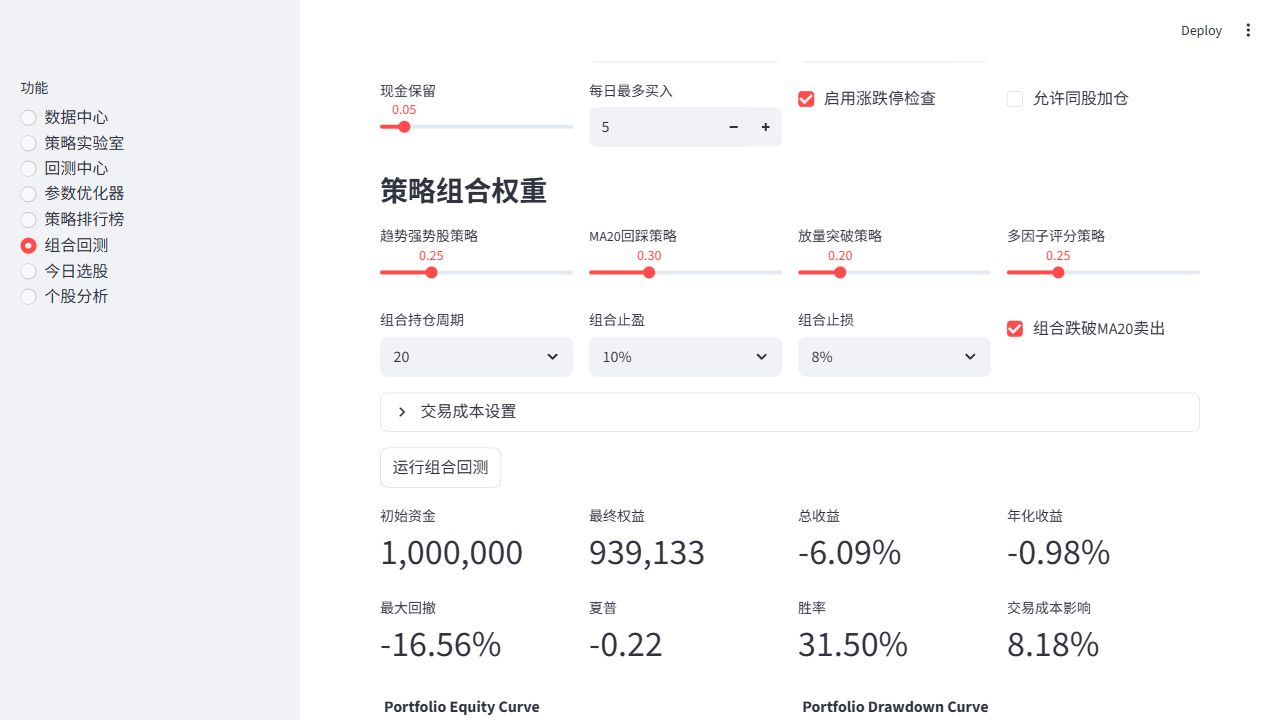
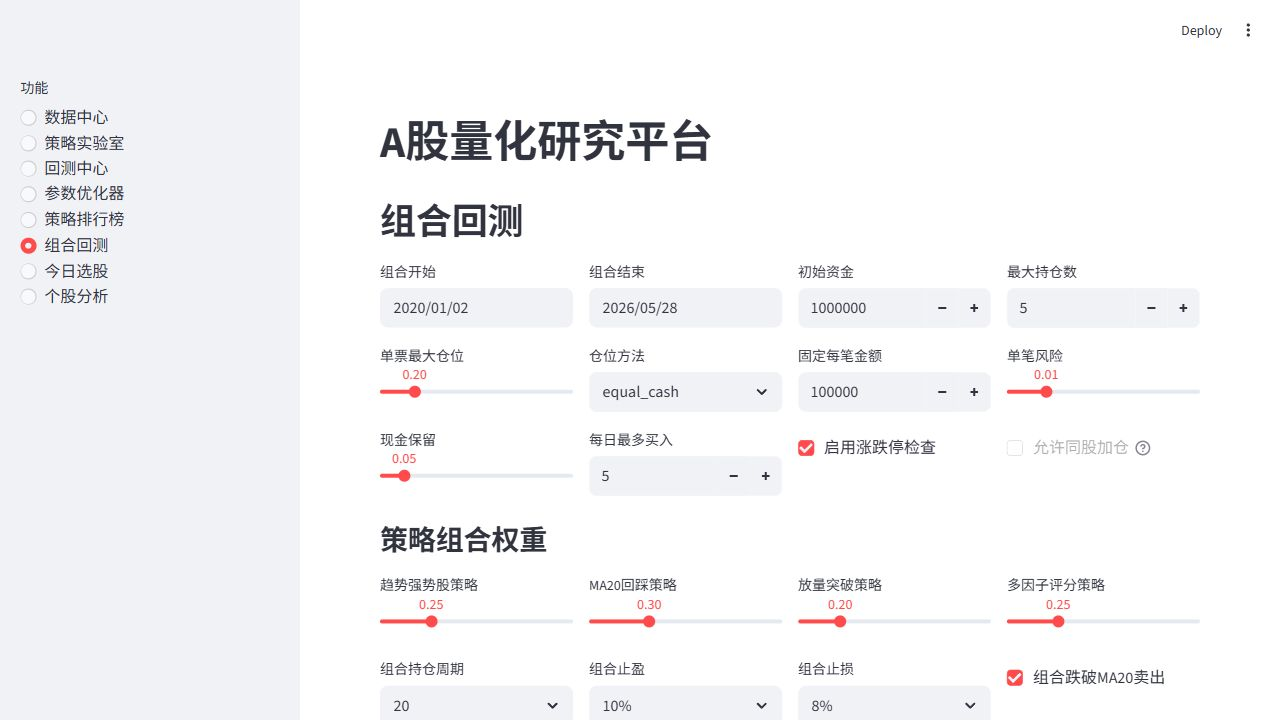
fix: address V3 PR review blockers

diff --git a/ranking/leaderboard.py b/ranking/leaderboard.py
@@ -2,7 +2,8 @@ from __future__ import annotations
 
 import pandas as pd
 
-from backtest.backtest_engine import run_strategy_backtest
+from backtest.backtest_engine import apply_realistic_costs_to_trades, run_strategy_backtest
+from execution.cost_model import TradingCostConfig
 from ranking.ranking_engine import STRATEGIES
 from strategy.metadata import display_strategy_name
 
@@ -41,6 +42,9 @@ def build_leaderboard_from_metrics(metrics_df: pd.DataFrame) -> pd.DataFrame:
         "gross_annual_return",
         "net_annual_return",
         "cost_impact",
+        "total_commission",
+        "total_stamp_tax",
+        "total_slippage_cost",
         "max_drawdown",
         "sharpe_ratio",
         "calmar_ratio",
@@ -53,6 +57,7 @@ def build_leaderboard_from_metrics(metrics_df: pd.DataFrame) -> pd.DataFrame:
     for item in metrics_df.to_dict("records"):
         net_cagr = _first_number(item, "net_CAGR", "net_annual_return", "CAGR", "annual_return")
         gross_annual = _first_number(item, "gross_annual_return", "gross_CAGR", "CAGR", "annual_return")
+        cost_impact = float(item.get("cost_impact", max(0.0, gross_annual - net_cagr)) or 0)
         max_drawdown = float(item.get("max_drawdown", 0) or 0)
         sharpe_ratio = float(item.get("sharpe_ratio", 0) or 0)
         rows.append(
@@ -68,7 +73,10 @@ def build_leaderboard_from_metrics(metrics_df: pd.DataFrame) -> pd.DataFrame:
                 "avg_return": float(item.get("avg_return", 0) or 0),
                 "gross_annual_return": gross_annual,
                 "net_annual_return": net_cagr,
-                "cost_impact": float(item.get("cost_impact", max(0.0, gross_annual - net_cagr)) or 0),
+                "cost_impact": max(0.0, cost_impact),
+                "total_commission": float(item.get("total_commission", 0) or 0),
+                "total_stamp_tax": float(item.get("total_stamp_tax", 0) or 0),
+                "total_slippage_cost": float(item.get("total_slippage_cost", 0) or 0),
                 "max_drawdown": max_drawdown,
                 "sharpe_ratio": sharpe_ratio,
                 "calmar_ratio": _calmar(net_cagr, max_drawdown),
@@ -89,10 +97,12 @@ def build_strategy_leaderboard(
     holding_days: int = 20,
     take_profit_pct: float | None = 0.10,
     stop_loss_pct: float | None = 0.08,
+    cost_config: TradingCostConfig | None = None,
 ) -> pd.DataFrame:
     if factor_df.empty:
         return build_leaderboard_from_metrics(pd.DataFrame())
 
+    cost_config = cost_config or TradingCostConfig()
     periods = periods or DEFAULT_PERIODS
     data = factor_df.copy()
     data["date"] = pd.to_datetime(data["date"])
@@ -116,20 +126,29 @@ def build_strategy_leaderboard(
                 stop_loss_pct=stop_loss_pct,
                 sell_on_ma20_break=True,
             )
+            _, net_metrics = apply_realistic_costs_to_trades(
+                metrics["trade_details"],
+                cost_config=cost_config,
+            )
+            gross_annual_return = float(metrics["CAGR"])
+            net_annual_return = float(net_metrics["CAGR"])
             metrics_rows.append(
                 {
                     "period": period_name,
                     "strategy_name": strategy_name,
-                    "win_rate": metrics["win_rate"],
-                    "avg_return": metrics["avg_return"],
-                    "CAGR": metrics["CAGR"],
-                    "gross_annual_return": metrics["CAGR"],
-                    "net_annual_return": metrics["CAGR"],
-                    "cost_impact": 0.0,
-                    "max_drawdown": metrics["max_drawdown"],
-                    "sharpe_ratio": metrics["sharpe_ratio"],
-                    "profit_loss_ratio": metrics["profit_loss_ratio"],
-                    "total_trades": metrics["total_trades"],
+                    "win_rate": net_metrics["win_rate"],
+                    "avg_return": net_metrics["avg_return"],
+                    "CAGR": net_annual_return,
+                    "gross_annual_return": gross_annual_return,
+                    "net_annual_return": net_annual_return,
+                    "cost_impact": max(0.0, gross_annual_return - net_annual_return),
+                    "total_commission": net_metrics.get("total_commission", 0.0),
+                    "total_stamp_tax": net_metrics.get("total_stamp_tax", 0.0),
+                    "total_slippage_cost": net_metrics.get("total_slippage_cost", 0.0),
+                    "max_drawdown": net_metrics["max_drawdown"],
+                    "sharpe_ratio": net_metrics["sharpe_ratio"],
+                    "profit_loss_ratio": net_metrics["profit_loss_ratio"],
+                    "total_trades": net_metrics["total_trades"],
                 }
             )
     return build_leaderboard_from_metrics(pd.DataFrame(metrics_rows))

diff --git a/tests/test_leaderboard.py b/tests/test_leaderboard.py
@@ -1,6 +1,9 @@
 import pandas as pd
 
-from ranking.leaderboard import build_leaderboard_from_metrics, rate_strategy
+import ranking.leaderboard as leaderboard_module
+from backtest.backtest_engine import calculate_trade_metrics
+from execution.cost_model import TradingCostConfig
+from ranking.leaderboard import build_leaderboard_from_metrics, build_strategy_leaderboard, rate_strategy
 
 
 def test_rate_strategy_rules_use_net_cagr_and_negative_drawdown_comparison():
@@ -56,3 +59,68 @@ def test_build_leaderboard_from_metrics_uses_display_names_and_net_columns():
         "max_drawdown",
         "sharpe_ratio",
     }.issubset(leaderboard.columns)
+
+
+def test_build_leaderboard_from_metrics_rates_by_net_result():
+    metrics = pd.DataFrame(
+        [
+            {
+                "strategy_name": "trend_strength_strategy",
+                "period": "1个月",
+                "win_rate": 0.8,
+                "avg_return": 0.04,
+                "gross_annual_return": 0.30,
+                "net_annual_return": -0.01,
+                "cost_impact": 0.31,
+                "max_drawdown": -0.10,
+                "sharpe_ratio": 2.0,
+                "profit_loss_ratio": 1.5,
+            }
+        ]
+    )
+
+    leaderboard = build_leaderboard_from_metrics(metrics)
+
+    assert leaderboard.iloc[0]["rating"] == "D"
+
+
+def test_strategy_leaderboard_applies_default_trading_costs(monkeypatch):
+    def fake_strategy(_factor_df, **_params):
+        return pd.DataFrame()
+
+    def fake_backtest(**_kwargs):
+        trades = pd.DataFrame(
+            {
+                "code": ["000001"],
+                "name": ["Sample"],
+                "buy_date": [pd.Timestamp("2023-01-01")],
+                "exit_date": [pd.Timestamp("2024-01-01")],
+                "buy_price": [10.0],
+                "exit_price": [11.0],
+                "return": [0.10],
+            }
+        )
+        return calculate_trade_metrics(trades)
+
+    monkeypatch.setattr(leaderboard_module, "STRATEGIES", {"trend_strength_strategy": fake_strategy})
+    monkeypatch.setattr(leaderboard_module, "run_strategy_backtest", fake_backtest)
+    factor_df = pd.DataFrame(
+        {
+            "code": ["000001", "000001", "000001"],
+            "date": pd.bdate_range("2024-01-01", periods=3),
+            "close": [10.0, 10.5, 11.0],
+        }
+    )
+
+    leaderboard = build_strategy_leaderboard(
+        factor_df,
+        periods={"test": 2},
+        cost_config=TradingCostConfig(),
+    )
+    row = leaderboard.iloc[0]
+
+    assert row["cost_impact"] >= 0
+    assert row["net_annual_return"] <= row["gross_annual_return"]
+    assert row["total_commission"] > 0
+    assert row["total_stamp_tax"] > 0
+    assert row["total_slippage_cost"] > 0

diff --git a/tests/test_market_regime_v3.py b/tests/test_market_regime_v3.py
@@ -1,6 +1,6 @@
 import pandas as pd
 
-from market.regime_engine import classify_market_regime
+from market.regime_engine import build_market_proxy_from_prices, classify_market_regime
 
 
 def test_enhanced_market_regime_outputs_required_factor_columns():
@@ -35,3 +35,44 @@ def test_enhanced_market_regime_detects_high_volatility():
     regimes = classify_market_regime(index_df)
 
     assert "HIGH_VOLATILITY" in set(regimes["regime"])
+
+
+def test_market_proxy_uses_equal_weighted_normalized_prices():
+    prices = pd.DataFrame(
+        {
+            "code": ["000001", "000002", "000001", "000002"],
+            "date": [
+                pd.Timestamp("2024-01-01"),
+                pd.Timestamp("2024-01-01"),
+                pd.Timestamp("2024-01-02"),
+                pd.Timestamp("2024-01-02"),
+            ],
+            "close": [1000.0, 10.0, 1000.0, 20.0],
+        }
+    )
+
+    proxy = build_market_proxy_from_prices(prices)
+
+    assert list(proxy["date"]) == [pd.Timestamp("2024-01-01"), pd.Timestamp("2024-01-02")]
+    assert list(proxy["close"].round(4)) == [1.0, 1.5]
+
+
+def test_market_proxy_without_code_falls_back_to_simple_average_sorted():
+    prices = pd.DataFrame(
+        {
+            "date": [pd.Timestamp("2024-01-02"), pd.Timestamp("2024-01-01"), pd.Timestamp("2024-01-01")],
+            "close": [30.0, 10.0, 20.0],
+        }
+    )
+
+    proxy = build_market_proxy_from_prices(prices)
+
+    assert list(proxy["date"]) == [pd.Timestamp("2024-01-01"), pd.Timestamp("2024-01-02")]
+    assert list(proxy["close"]) == [15.0, 30.0]
+
+
+def test_market_proxy_empty_data_does_not_error():
+    proxy = build_market_proxy_from_prices(pd.DataFrame())
+
+    assert list(proxy.columns) == ["date", "close"]
+    assert proxy.empty

diff --git a/market/regime_engine.py b/market/regime_engine.py
@@ -73,10 +73,23 @@ def build_market_proxy_from_prices(price_df: pd.DataFrame) -> pd.DataFrame:
     proxy = price_df.copy()
     proxy["date"] = pd.to_datetime(proxy["date"])
     proxy["close"] = pd.to_numeric(proxy["close"], errors="coerce")
+    proxy = proxy.dropna(subset=["date", "close"]).sort_values("date").reset_index(drop=True)
+    if proxy.empty:
+        return pd.DataFrame(columns=["date", "close"])
+
+    if "code" not in proxy.columns:
+        return proxy.groupby("date", as_index=False)["close"].mean().sort_values("date").reset_index(drop=True)
+
+    proxy["code"] = proxy["code"].astype(str).str.zfill(6)
+    first_close = proxy.groupby("code")["close"].transform("first")
+    proxy = proxy[first_close.gt(0)].copy()
+    if proxy.empty:
+        return pd.DataFrame(columns=["date", "close"])
+    proxy["normalized_close"] = proxy["close"] / first_close.loc[proxy.index]
     return (
-        proxy.dropna(subset=["date", "close"])
-        .groupby("date", as_index=False)["close"]
+        proxy.groupby("date", as_index=False)["normalized_close"]
         .mean()
+        .rename(columns={"normalized_close": "close"})
         .sort_values("date")
         .reset_index(drop=True)
     )

diff --git a/portfolio/portfolio_engine.py b/portfolio/portfolio_engine.py
@@ -43,6 +43,7 @@ class PortfolioBacktestEngine:
         self.cost_config = cost_config or TradingCostConfig()
         self.position_config = position_config or PositionSizingConfig()
         self.exit_config = exit_config or ExitConfig()
+        self._reject_add_position_mode()
 
     def run(
         self,
@@ -51,6 +52,7 @@ class PortfolioBacktestEngine:
         start_date: str | pd.Timestamp | None = None,
         end_date: str | pd.Timestamp | None = None,
     ) -> dict[str, object]:
+        self._reject_add_position_mode()
         prices = self._prepare_prices(price_data)
         if prices.empty:
             return self._empty_result(pd.DataFrame())
@@ -132,6 +134,13 @@ class PortfolioBacktestEngine:
             "positions_snapshot": positions_df,
             "metrics": metrics,
         }
+
+    def _reject_add_position_mode(self) -> None:
+        if self.exit_config.allow_add_position:
+            raise NotImplementedError(
+                "allow_add_position=True is not supported in V3; "
+                "lot-level position accounting is planned for V4."
+            )
 
     def _process_exits(
         self,

diff --git a/tests/test_portfolio_engine.py b/tests/test_portfolio_engine.py
@@ -1,4 +1,5 @@
 import pandas as pd
+import pytest
 
 from execution.cost_model import TradingCostConfig
 from portfolio.portfolio_engine import ExitConfig, PortfolioBacktestEngine
@@ -87,6 +88,25 @@ def test_portfolio_skips_duplicate_position_by_default():
 
     assert len(buy_orders.loc[buy_orders["status"].eq("FILLED")]) == 1
     assert "SKIPPED_DUPLICATE_POSITION" in set(buy_orders["status"])
+
+
+def test_portfolio_rejects_add_position_mode_in_v3():
+    with pytest.raises(
+        NotImplementedError,
+        match="allow_add_position=True is not supported in V3",
+    ):
+        PortfolioBacktestEngine(exit_config=ExitConfig(allow_add_position=True))
+
+
+def test_portfolio_rejects_add_position_mode_at_runtime_if_mutated():
+    engine = _engine()
+    object.__setattr__(engine.exit_config, "allow_add_position", True)
+
+    with pytest.raises(
+        NotImplementedError,
+        match="allow_add_position=True is not supported in V3",
+    ):
+        engine.run(_signals(), _prices())
 
 
 def test_portfolio_respects_t_plus_one_before_selling():

diff --git a/app.py b/app.py
@@ -422,7 +422,13 @@ def portfolio_backtest_page() -> None:
     with col3:
         enable_limit_check = st.checkbox("启用涨跌停检查", value=True)
     with col4:
-        allow_add_position = st.checkbox("允许同股加仓", value=False)
+        st.checkbox(
+            "允许同股加仓",
+            value=False,
+            disabled=True,
+            key="portfolio_allow_add_position_disabled",
+            help="V3 暂不支持同股加仓；V4 将支持 lot-level 持仓核算。",
+        )
 
     st.subheader("策略组合权重")
     weight_cols = st.columns(4)
@@ -456,7 +462,7 @@ def portfolio_backtest_page() -> None:
         take_profit_pct=float(take_profit_pct),
         stop_loss_pct=float(stop_loss_pct),
         sell_on_ma20_break=sell_on_ma20_break,
-        allow_add_position=allow_add_position,
+        allow_add_position=False,
         enable_limit_check=enable_limit_check,
         daily_top_n=int(daily_top_n),
     )

diff --git a/README.md b/README.md
@@ -75,6 +75,7 @@ V3 组合回测新增：
 - 收盘后生成信号，下一交易日开盘尝试买入。
 - 买入检查现金、100股整数倍、已有持仓、涨停近似限制。
 - 卖出检查止盈、止损、跌破 MA20、固定持仓周期、跌停近似限制。
+- V3 暂不支持同股加仓；`allow_add_position=True` 会主动报错，V4 计划引入 lot-level 持仓核算后再支持。
 - 每日更新 cash、positions、market_value、total_equity 和 drawdown。
 - 输出组合资金曲线、回撤曲线、订单、交易、持仓快照和组合指标。
 
@@ -153,4 +154,5 @@ python scripts/validate_project.py
 - 默认交易成本参数仅为研究假设。
 - 未接入 Level-2 成交数据，未考虑完整盘口冲击成本。
 - 未覆盖停牌、复权差异、流动性缺失等所有极端情况。
+- V3 暂不支持同股加仓，V4 再支持 lot-level 持仓核算。
 - 本项目不是自动交易系统，不支持实盘下单。
